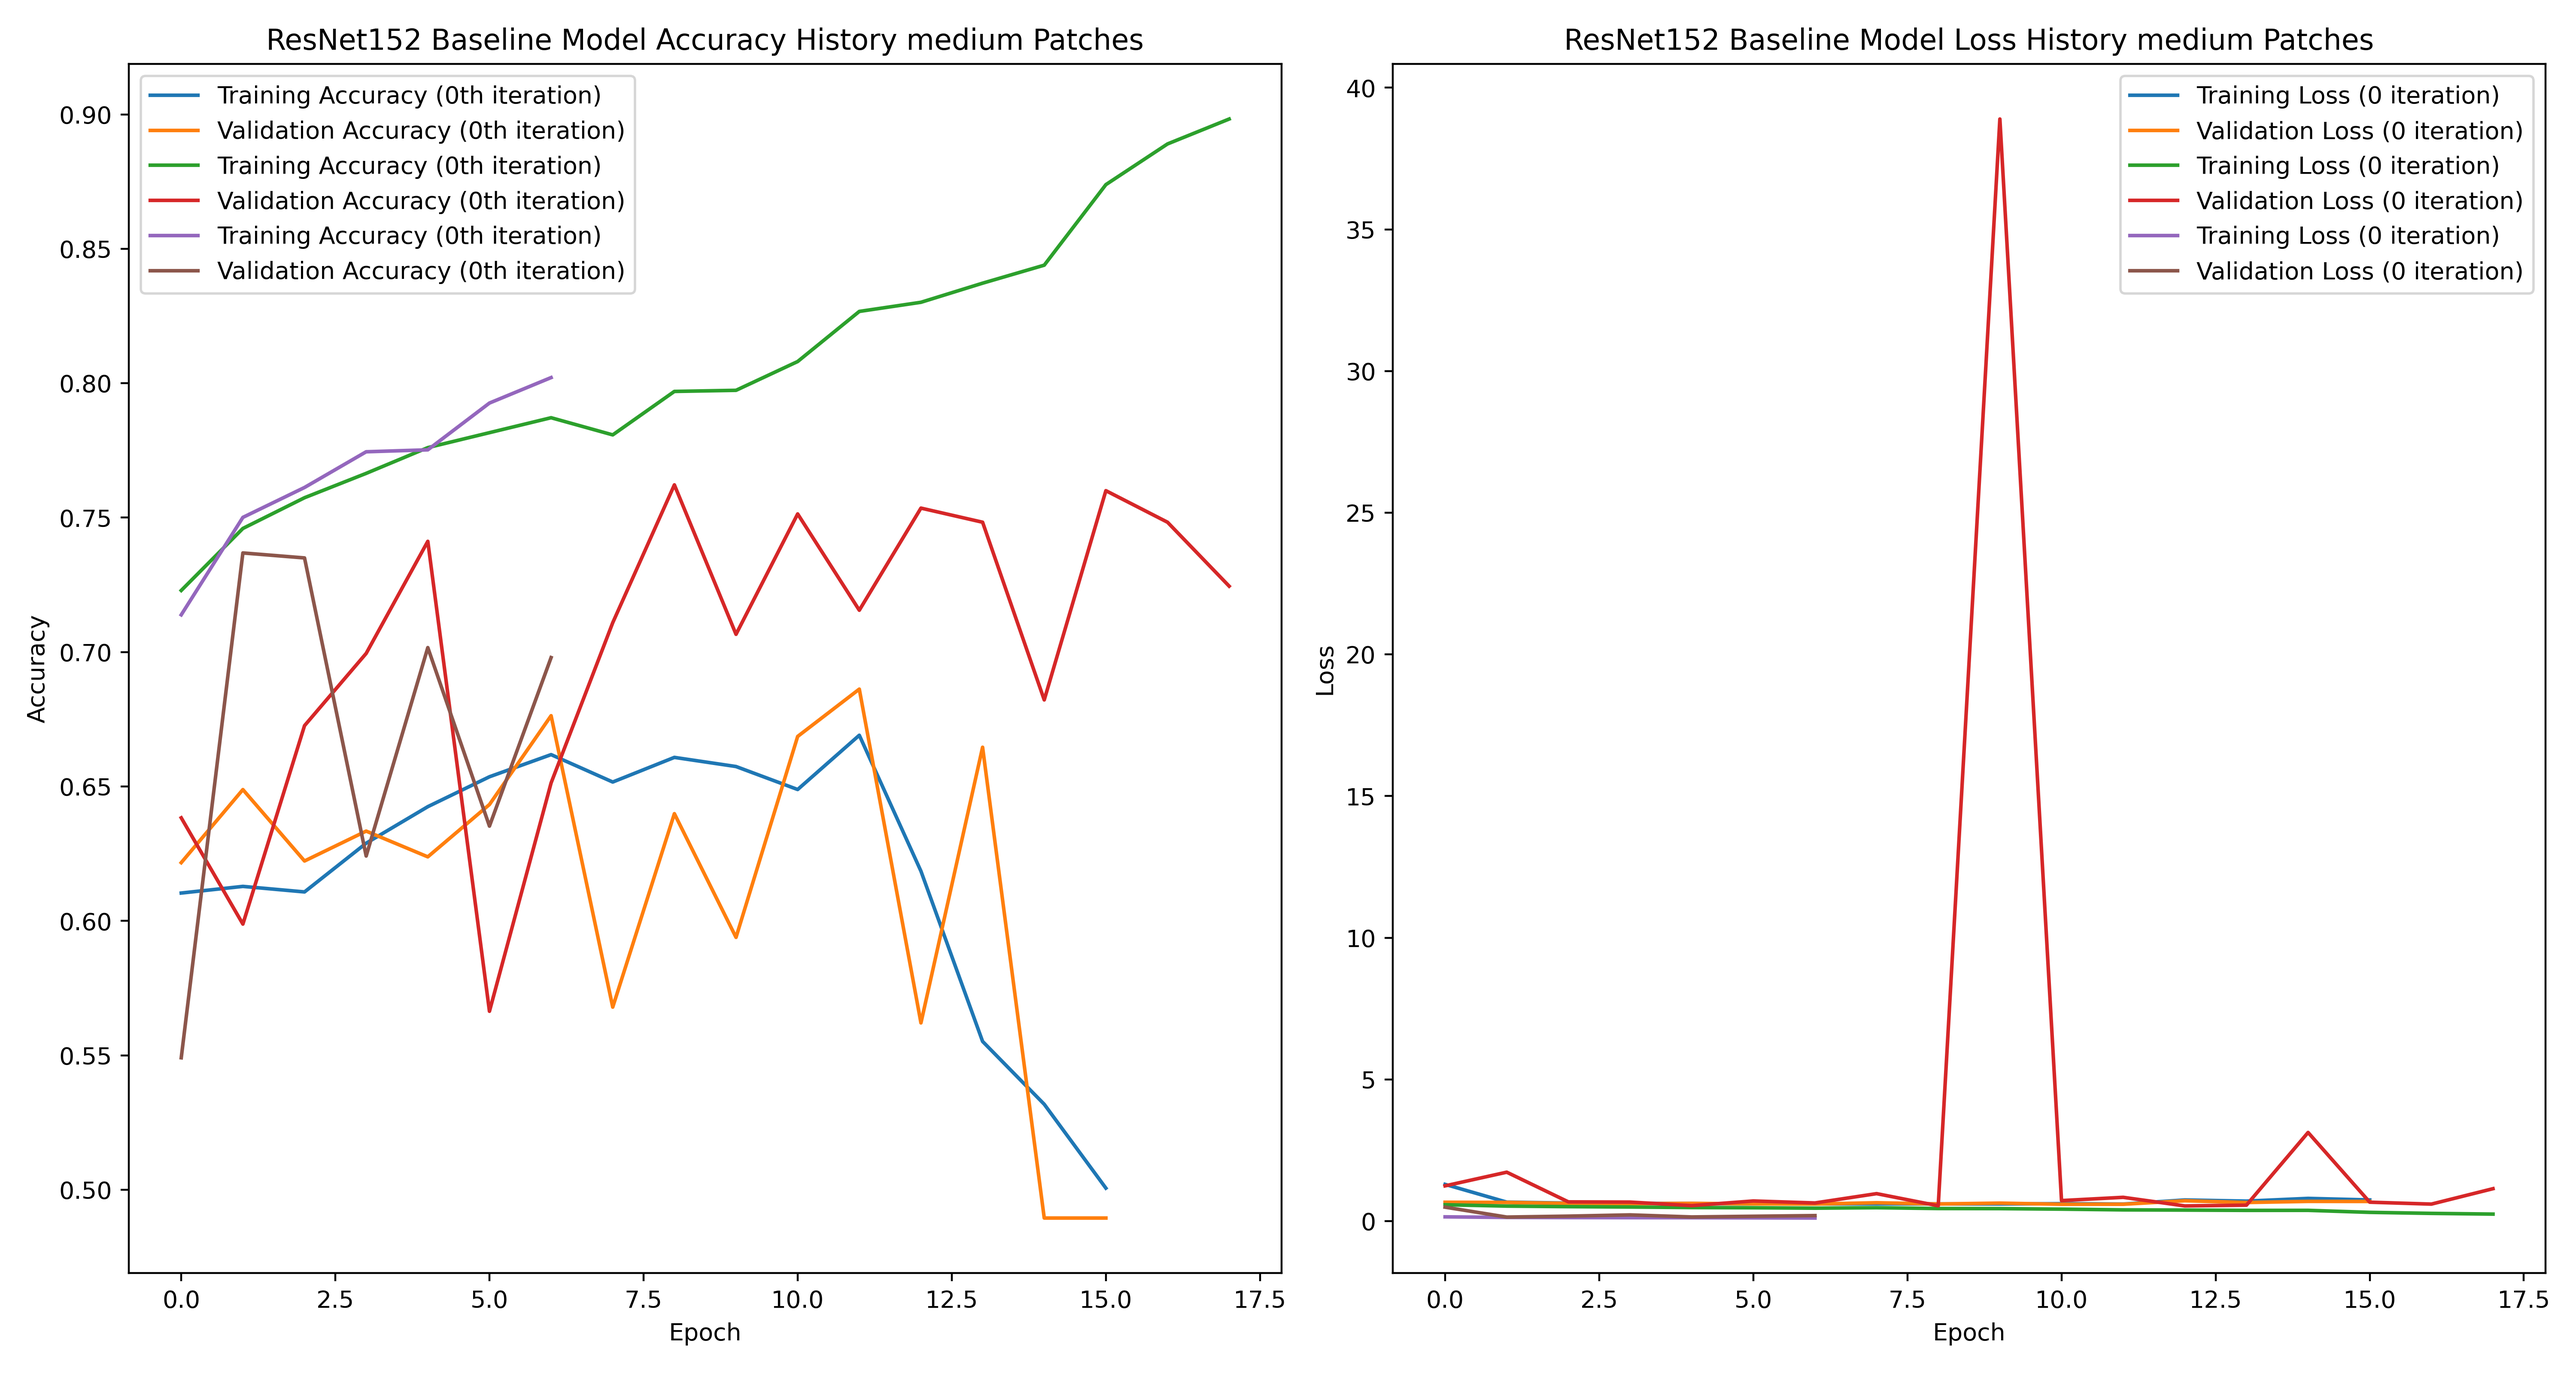
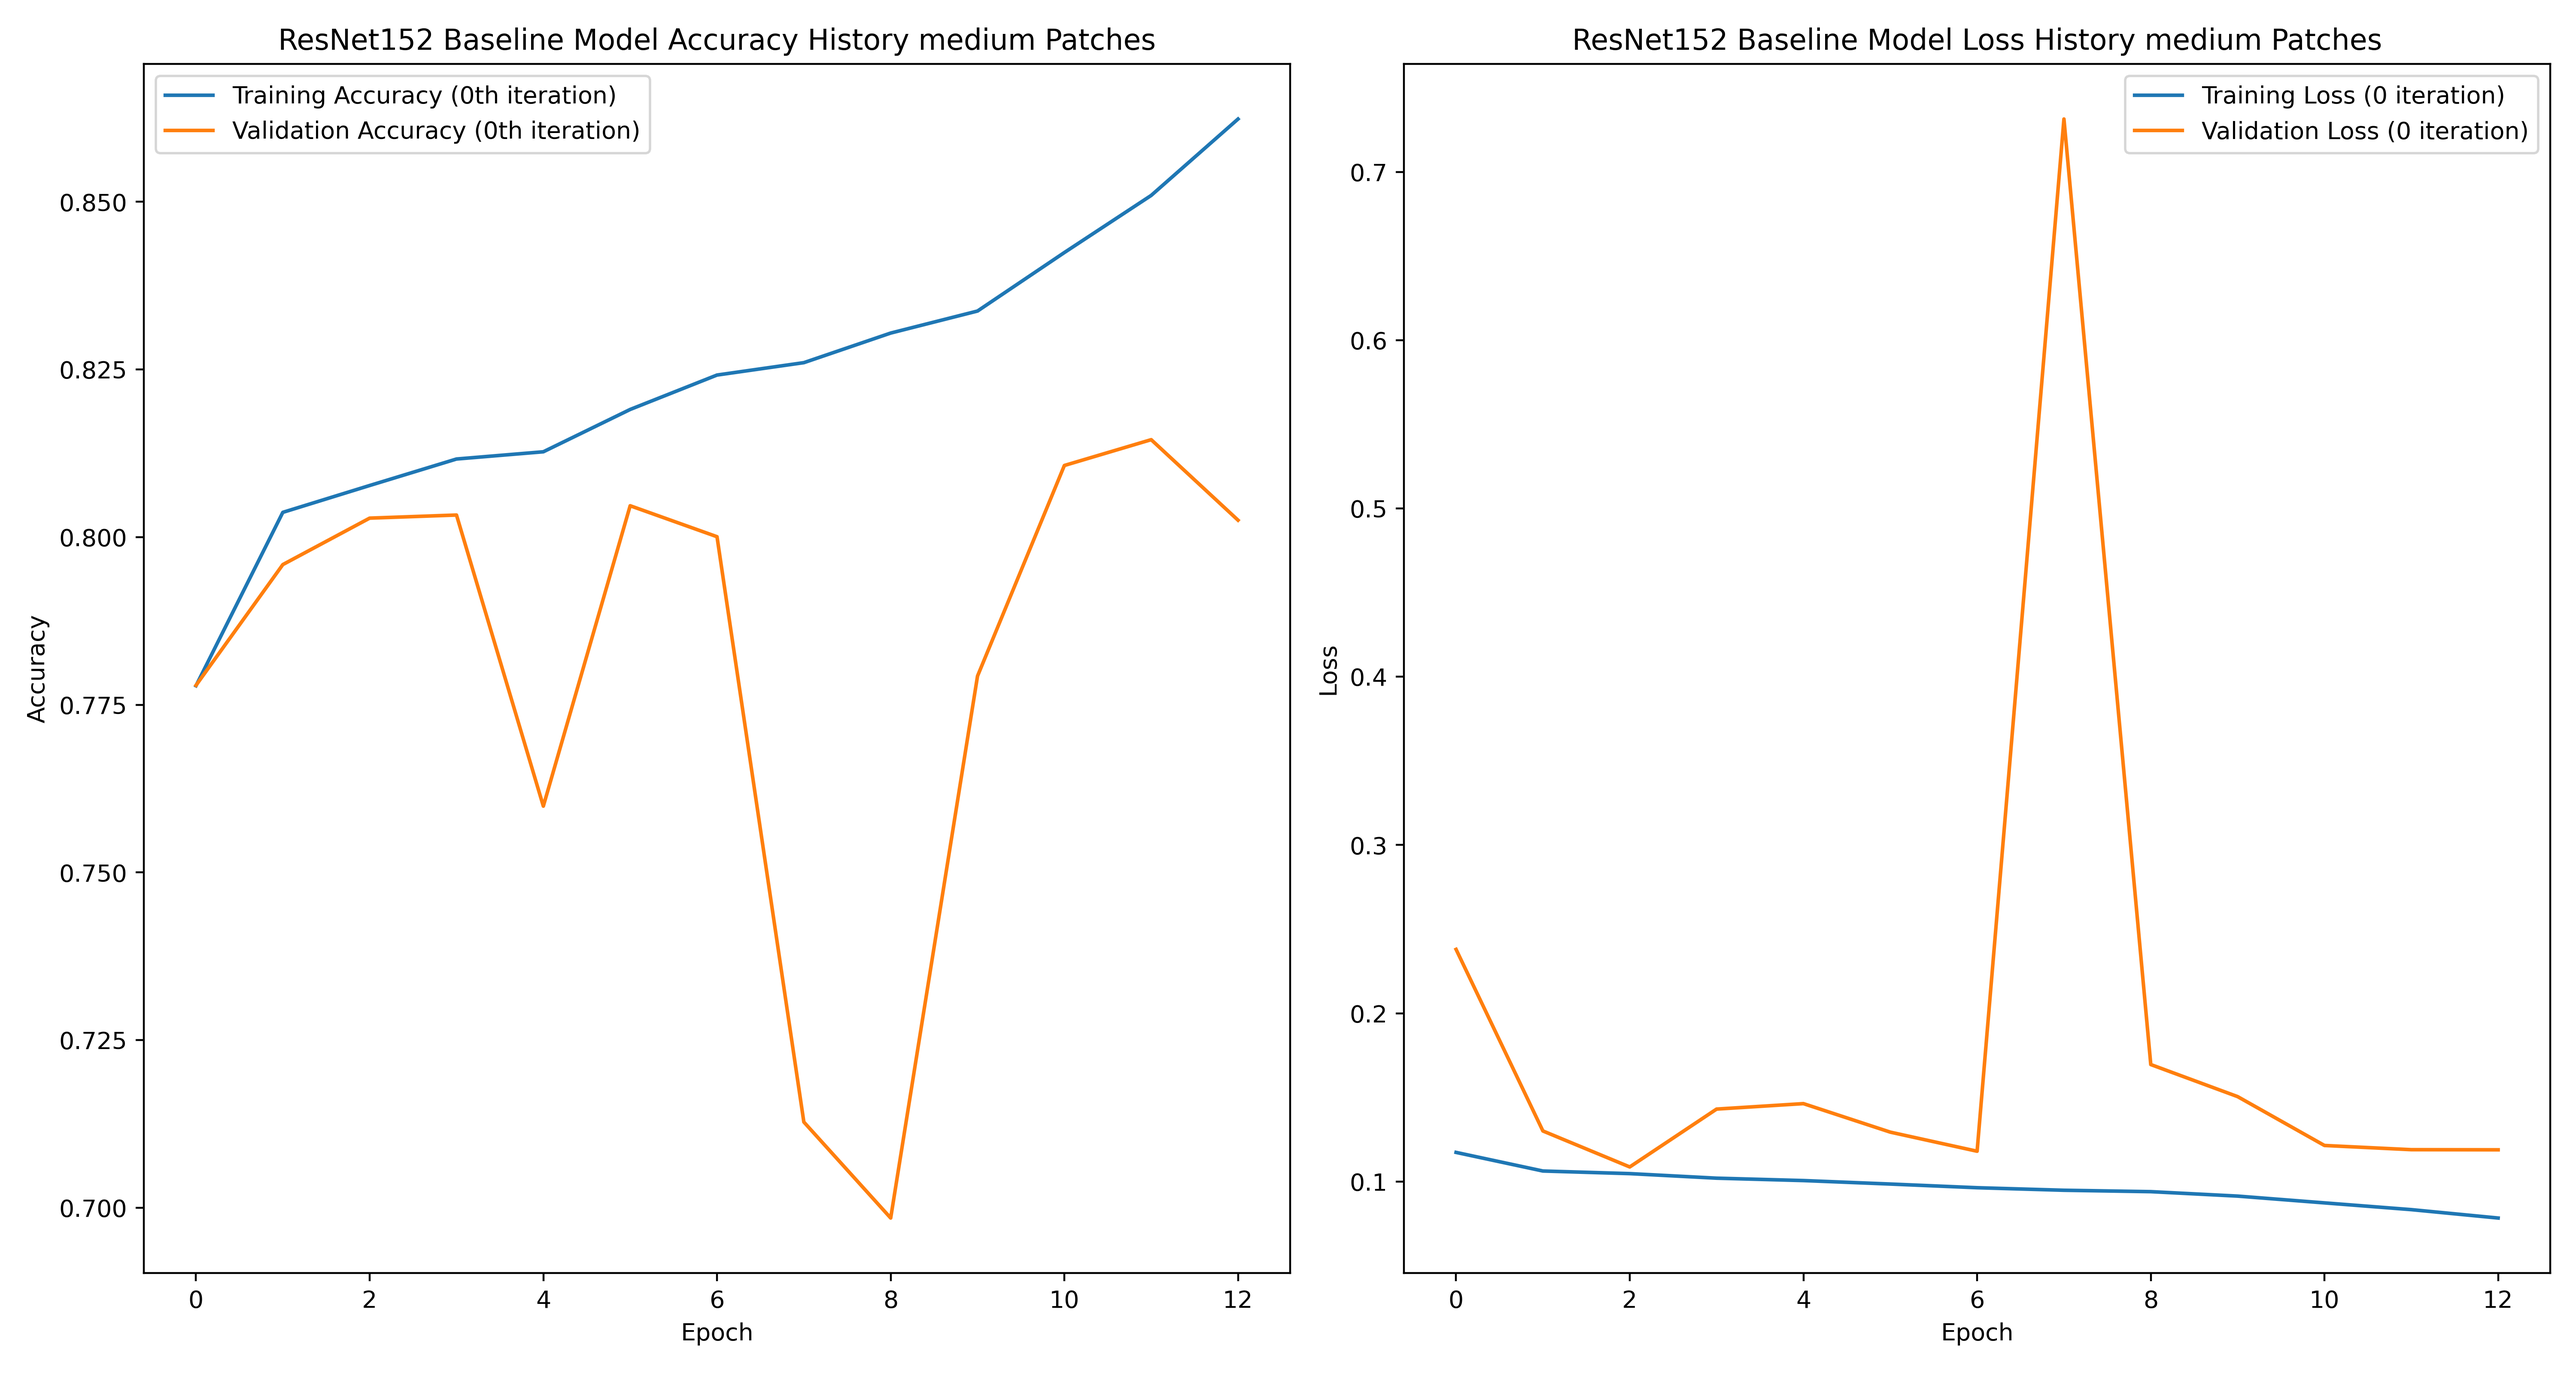
ADD: model training iterations

diff --git a/patch_based_classify.py b/patch_based_classify.py
@@ -533,7 +533,7 @@ def main():
 
     plt.figure(figsize=(15, 8))
     previous_val_acc = 0
-    early_stopping = EarlyStopping(monitor='val_loss', patience=5, restore_best_weights=True)
+    early_stopping = EarlyStopping(monitor='val_loss', patience=10, restore_best_weights=True)
 
     #Train custom
     print('Train Custom Architecture')
